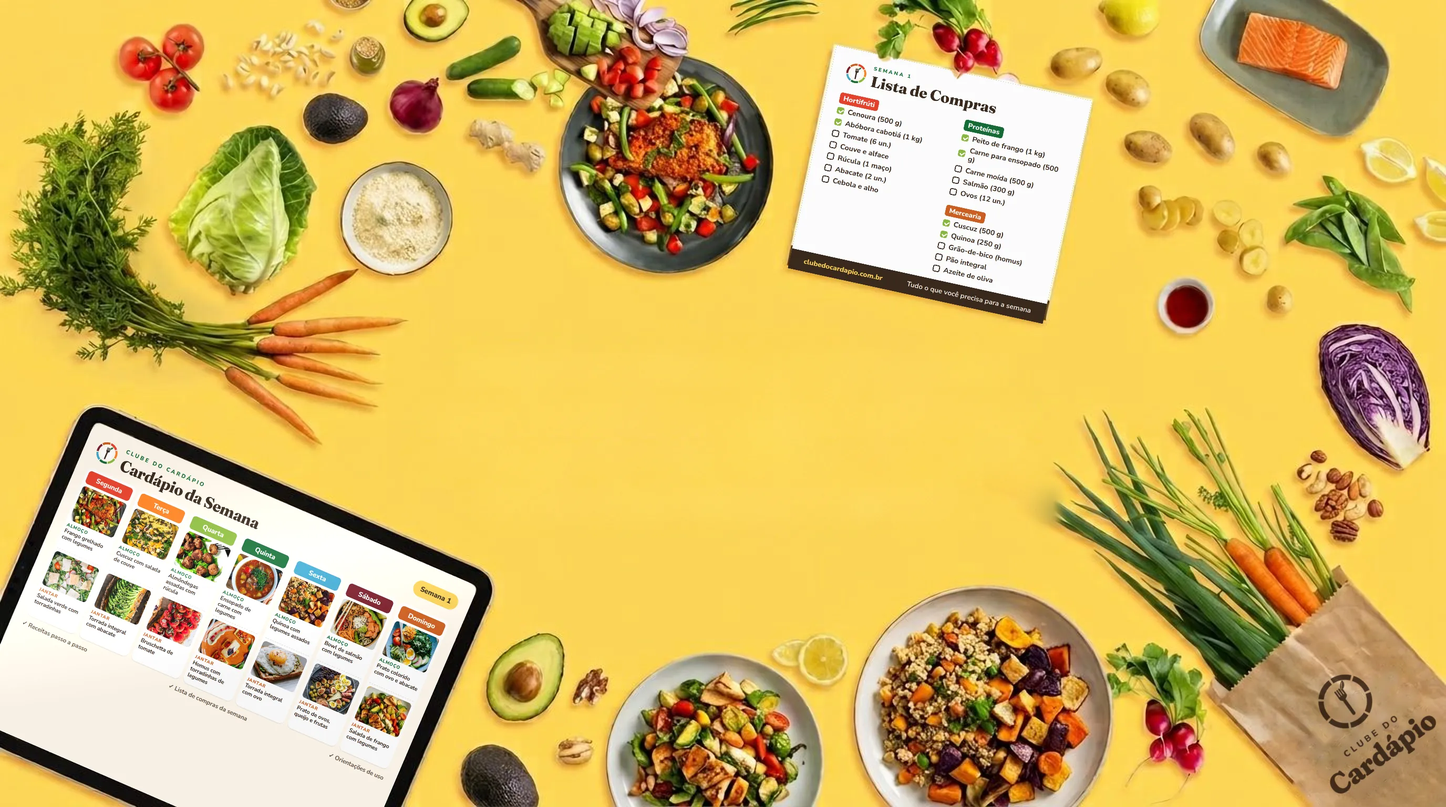
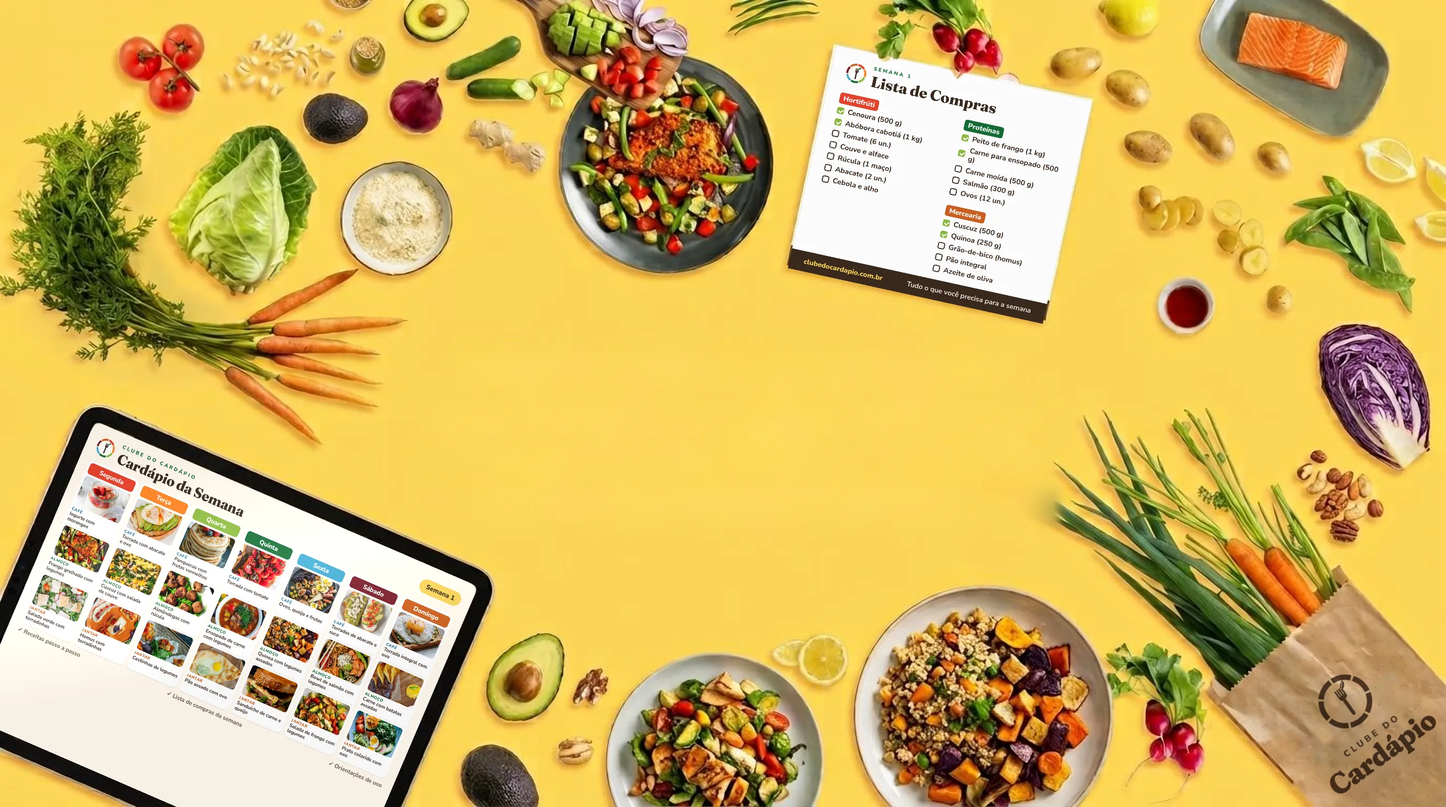
Tablet do HERO com café da manhã, almoço e jantar (21 fotos reais)
Claude-Session: https://claude.ai/code/session_011dvyRhPNz3FX2TnzhsmVBS

Changed region(s): [[0.0, 0.5312, 0.3125, 0.9688]]

diff --git a/images/pratos/LEIA-ME.md b/images/pratos/LEIA-ME.md
@@ -1,9 +1,14 @@
 # Fotos de pratos (provisórias)
 
-Recortes quadrados usados no mockup do tablet (`images/mockups/tablet-cardapio-semana.png`).
+Recortes quadrados usados no mockup do tablet (`images/mockups/tablet-cardapio-semana.png`):
+7 dias × café da manhã, almoço e jantar = 21 fotos.
 
-- `ter-cuscuz-couve`, `qua-almondegas-rucula`, `qui-ensopado`, `sab-bowl-salmao`, `dom-prato-ovo-abacate`: fotos do Unsplash enviadas pela equipe (licença Unsplash: uso comercial livre, sem necessidade de crédito).
-- `seg-frango-legumes`, `sex-quinoa-legumes`, `j-dom-salada-frango`: recortes da própria imagem do HERO.
-- `j-*` (jantares): `j-seg-salada-torradinhas`, `j-ter-torrada-abacate`, `j-qua-bruschetta-tomate`, `j-qui-homus`, `j-sex-torrada-ovo`, `j-sab-ovos-queijo-frutas`: fotos do Unsplash enviadas pela equipe.
+- Prefixo `c-`: cafés da manhã. Prefixo `j-`: jantares. Sem prefixo: almoços.
+  (Alguns arquivos `j-` são usados como café da manhã no tablet: bruschetta de
+  tomate, torrada com ovo e ovos com queijo e frutas.)
+- Origem: fotos do Unsplash enviadas pela equipe (licença Unsplash: uso comercial
+  livre, sem necessidade de crédito), exceto `seg-frango-legumes`,
+  `sex-quinoa-legumes` e `j-dom-salada-frango`, recortados da imagem do HERO.
 
-Substituir por fotos reais das preparações da Rita quando estiverem disponíveis (item 18 do Memorial).
+Substituir por fotos reais das preparações da Rita quando estiverem disponíveis
+(item 18 do Memorial).
